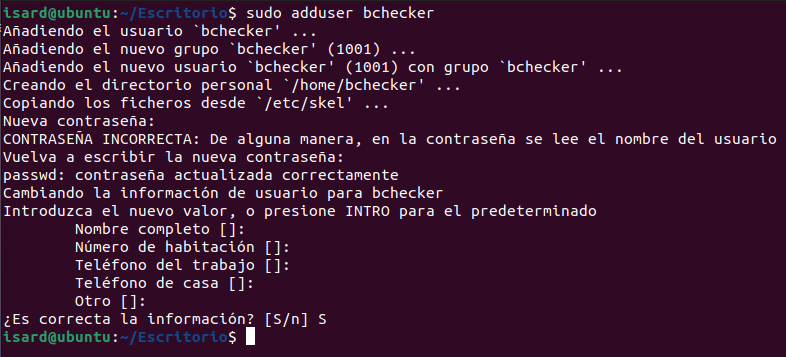
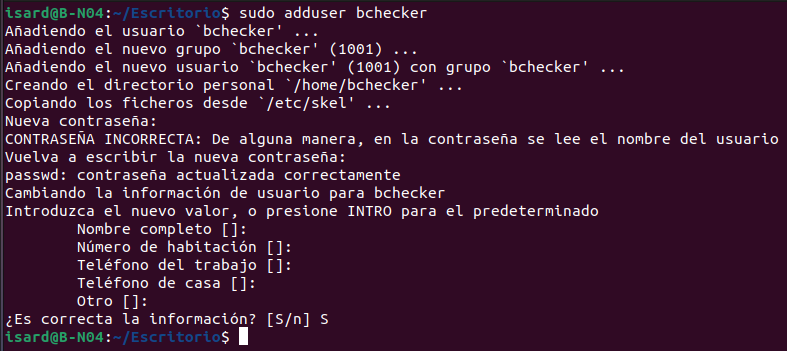
Add files via upload
cambios readme bbdd

Changed region(s): [[0.0, 0.0, 1.0, 1.0], [0.7634, 0.1994, 0.7939, 0.2279]]

diff --git a/docs/03-servidor-bbdd.md b/docs/03-servidor-bbdd.md
@@ -9,11 +9,12 @@ Servidor MariaDB situado en la **Intranet**. Guarda los datos de la aplicación 
 1. [Datos de la máquina](#1-datos-de-la-máquina)
 2. [Configuración de red](#2-configuración-de-red)
 3. [Instalación de MariaDB](#3-instalación-de-mariadb)
-4. [Usuario obligatorio bchecker](#4-usuario-obligatorio-bchecker)
-5. [Permitir conexiones remotas](#5-permitir-conexiones-remotas)
-6. [Seguridad del motor](#6-seguridad-del-motor-mysql_secure_installation)
-7. [Base de datos y usuarios remotos](#7-base-de-datos-y-usuarios-remotos)
-8. [Resumen de comprobaciones](#8-resumen-de-comprobaciones)
+4. [Nombre de la máquina](#4-nombre-de-la-máquina)
+5. [Usuario obligatorio bchecker](#5-usuario-obligatorio-bchecker)
+6. [Permitir conexiones remotas](#6-permitir-conexiones-remotas)
+7. [Seguridad del motor](#7-seguridad-del-motor-mysql_secure_installation)
+8. [Base de datos y usuarios remotos](#8-base-de-datos-y-usuarios-remotos)
+9. [Resumen de comprobaciones](#9-resumen-de-comprobaciones)
 
 ---
 
@@ -21,7 +22,7 @@ Servidor MariaDB situado en la **Intranet**. Guarda los datos de la aplicación 
 
 | Campo | Valor |
 |---|---|
-| Hostname | B-N04 <!-- TODO Mario: en las capturas sale 'ubuntu', cambiar con hostnamectl --> |
+| Hostname | B-N04 |
 | Sistema operativo | Ubuntu 22.04 LTS |
 | Motor de BBDD | MariaDB 10.6.23 |
 | Red | Intranet (10.4.20.0/24) |
@@ -51,16 +52,17 @@ network:
       nameservers:
         addresses:
           - 8.8.8.8
-          - 1.1.1.1
 ```
 
 - `dhcp4: no` → no pide IP al DHCP, usa la fija.
 - `routes: default via 10.4.20.1` → todo lo que no sea de la Intranet sale por el router.
-- `nameservers` → servidores DNS que usa la máquina.
+- `nameservers` → servidor DNS que usa la máquina.
 
 ```bash
 sudo netplan apply
 ```
+
+La máquina solo tiene la tarjeta de la Intranet: sale a Internet a través del router (NAT).
 
 ![Configuración de netplan](img/bbdd-12-netplan.png)
 
@@ -95,7 +97,24 @@ Tiene que aparecer **`enabled`** y **`active (running)`**.
 
 ---
 
-## 4. Usuario obligatorio bchecker
+## 4. Nombre de la máquina
+
+El enunciado exige el nombre `B-NCC`.
+
+```bash
+sudo hostnamectl set-hostname B-N04
+hostname
+```
+
+![Cambio de hostname](img/bbdd-13-hostname.png)
+
+Al abrir una nueva terminal, el prompt ya muestra el nombre nuevo:
+
+![Prompt con el hostname B-N04](img/bbdd-14-hostname-prompt.png)
+
+---
+
+## 5. Usuario obligatorio bchecker
 
 El enunciado pide un usuario `bchecker` (contraseña `bchecker121`) en todos los equipos, para que el profesorado pueda revisarlos.
 
@@ -115,7 +134,7 @@ Durante la creación, el sistema avisa de que la contraseña es débil porque co
 
 ---
 
-## 5. Permitir conexiones remotas
+## 6. Permitir conexiones remotas
 
 Por defecto, MariaDB solo escucha en `127.0.0.1` (la propia máquina). Como la aplicación web está en **otro servidor** (W-N04, en la DMZ), hay que permitir conexiones desde la red.
 
@@ -150,7 +169,7 @@ sudo ss -tlnp | grep 3306
 
 ---
 
-## 6. Seguridad del motor (mysql_secure_installation)
+## 7. Seguridad del motor (mysql_secure_installation)
 
 Script que viene con MariaDB para quitar la configuración "de pruebas" que trae por defecto.
 
@@ -173,51 +192,60 @@ sudo mysql_secure_installation
 
 ---
 
-## 7. Base de datos y usuarios remotos
+## 8. Base de datos y usuarios remotos
 
-Se crea la base de datos **`crud_db`** con codificación **`utf8mb4`**, que admite todos los caracteres (acentos, `ç`, `ñ`…). Es necesaria porque los datos de Open Data BCN tienen nombres en catalán.
-
-<!-- TODO Mario: añadir captura del CREATE DATABASE, CREATE USER y GRANT -->
-
-Se configuran dos usuarios remotos:
-
-| Usuario | Desde dónde | Para qué |
-|---|---|---|
-| `usuario_app` | `%` (cualquier equipo) | Lo usa la aplicación del servidor web |
-| `bchecker` | `%` (cualquier equipo) | Revisión por parte del profesorado |
-
-Comandos para fijar las contraseñas:
+Se entra en MariaDB como administrador:
 
 ```bash
 sudo mysql -u root
 ```
 
+![Acceso a MariaDB](img/bbdd-15-acceso-mysql.png)
+
+Se crea la base de datos **`crud_db`** con codificación **`utf8mb4`**, que admite todos los caracteres (acentos, `ç`, `ñ`…). Es necesaria porque los datos de Open Data BCN tienen nombres en catalán. Después se crean los usuarios remotos y se les dan permisos:
+
 ```sql
-ALTER USER 'usuario_app'@'%' IDENTIFIED BY '********';
-ALTER USER 'bchecker'@'%' IDENTIFIED BY 'bchecker121';
+CREATE DATABASE crud_db CHARACTER SET utf8mb4 COLLATE utf8mb4_unicode_ci;
+
+CREATE USER 'usuario_app'@'%' IDENTIFIED BY '********';
+GRANT ALL PRIVILEGES ON crud_db.* TO 'usuario_app'@'%';
+
+CREATE USER 'bchecker'@'%' IDENTIFIED BY 'bchecker121';
+GRANT ALL PRIVILEGES ON *.* TO 'bchecker'@'%' WITH GRANT OPTION;
+
 FLUSH PRIVILEGES;
 EXIT;
 ```
 
+| Usuario | Desde dónde | Permisos | Para qué |
+|---|---|---|---|
+| `usuario_app` | `%` (cualquier equipo) | Solo sobre `crud_db` | Lo usa la aplicación del servidor web |
+| `bchecker` | `%` (cualquier equipo) | Todas las bases de datos | Revisión por parte del profesorado |
+
 - `'usuario'@'%'` → el `%` indica que el usuario puede conectarse desde cualquier IP.
-- `FLUSH PRIVILEGES` → recarga los permisos para que los cambios se apliquen.
-- Las contraseñas se escriben sin espacios para evitar errores al conectar desde PHP.
+- `crud_db.*` → todas las tablas de esa base de datos, y ninguna más.
+- `FLUSH PRIVILEGES` → recarga los permisos para que se apliquen.
 
-> La contraseña de `usuario_app` no se publica porque el repositorio es público. Se ha difuminado en las capturas.
+> La contraseña de `usuario_app` no se publica porque el repositorio es público. Se ha difuminado en la captura.
 
-![Configuración de usuarios remotos](img/bbdd-10-usuarios-remotos.png)
+![Creación de la base de datos y los usuarios](img/bbdd-17-crear-bbdd-usuarios.png)
 
-Comprobación final: el servicio sigue escuchando en el puerto 3306 y los usuarios se actualizan sin errores.
+Comprobación final de que MariaDB sigue escuchando en el puerto 3306:
 
-![Verificación de usuarios y puerto](img/bbdd-11-usuarios-verificacion.png)
+```bash
+sudo ss -tlnp | grep mariadb
+```
+
+![Comprobación del puerto 3306](img/bbdd-16-comprobacion-puerto.png)
 
 ---
 
-## 8. Resumen de comprobaciones
+## 9. Resumen de comprobaciones
 
 | Comprobación | Comando | Resultado esperado |
 |---|---|---|
 | Servicio activo | `systemctl status mariadb` | `active (running)` |
 | Escucha en red | `ss -tlnp \| grep 3306` | `0.0.0.0:3306` |
 | Seguridad aplicada | `mysql_secure_installation` | `All done!` |
-| Usuarios configurados | `ALTER USER …` | `Query OK` |
+| Hostname | `hostname` | `B-N04` |
+| BBDD y usuarios | `CREATE DATABASE` / `CREATE USER` | `Query OK` |
